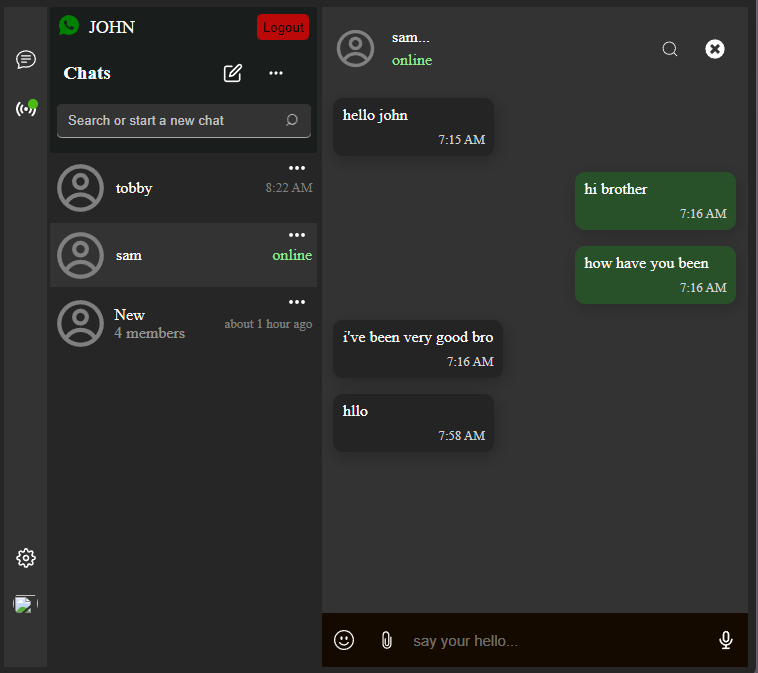
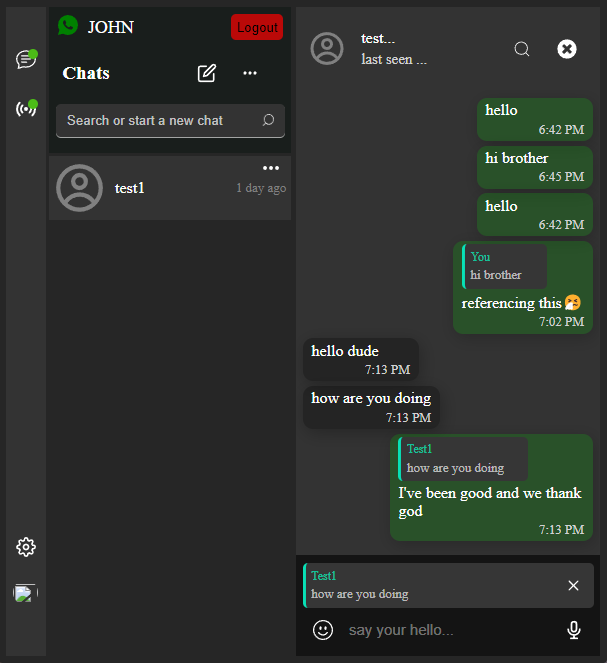
message copying functionality

diff --git a/src/components/chat/ChatBody.jsx b/src/components/chat/ChatBody.jsx
@@ -63,35 +63,53 @@ export const ChatBody = ({ socket, setEmojiOpen }) => {
     setReference(message)
     setIsReferenced(true)
   }
-
+console.log(messages)
   const messageContent = (
             <>
               {
-                messages?.map((message, index) =>
-                  <div 
-                    onDoubleClick={() => onMessageRef(message)}
-                    ref={messageRef}
-                    className={message?.senderId === currentUserId ? 'owner' : 'friend'} 
-                    key={message?._id}>
-                    {
-                      chatId?.convoId === message?.conversationId 
-                        &&
-                      <>
-                        <p>{message?.text}</p>  
-                        <p className='message_base'>
-                          {chatId?.groupName && (
-                            message?.senderId === currentUserId ?
-                              <span className='you'>You</span>
-                              :
-                              <span className='you'>{message?.username}</span>
-                            )
+                messages?.map(message =>  
+                  (
+                    <div 
+                      onDoubleClick={() => onMessageRef(message)}
+                      ref={messageRef}
+                      className={message?.senderId === currentUserId ? 'owner' : 'friend'} 
+                      key={message?._id}>
+                        <>
+                          {message?.referencedMessage?._id &&
+                            <div className='copied'>
+                              <p className='referenced_message'>
+                                <span className='sender'>
+                                  {
+                                    currentUser?._id === message?.referencedMessage?.senderId 
+                                      ? 
+                                        'You' : message?.referencedMessage?.username
+                                  }
+                                </span>
+                                <span className='text'>
+                                  {
+                                    message?.referencedMessage?.text.split(' ').length > 22 
+                                      ?
+                                      message?.referencedMessage?.text.slice(0, 105) + '...' : message?.referencedMessage?.text 
+                                  }
+                                </span>
+                              </p>
+                            </div>
                           }
-                          <span className={chatId?.groupName ? 'time' : 'other'}>{message?.dateTime}</span>
-                        </p>
-                      </>
-                    }
-                    {/* {chatViewed && <span>user viewed your chat</span>} */}
-                  </div>
+                          <p>{message?.text}</p>  
+                          <p className='message_base'>
+                            {chatId?.groupName && (
+                              message?.senderId === currentUserId ?
+                                <span className='you'>You</span>
+                                :
+                                <span className='you'>{message?.username}</span>
+                              )
+                            }
+                            <span className={chatId?.groupName ? 'time' : 'other'}>{message?.dateTime}</span>
+                          </p>
+                        </>
+                      {/* {chatViewed && <span>user viewed your chat</span>} */}
+                    </div>
+                  ) 
                 )
               }
             </>
@@ -186,6 +204,35 @@ position: relative;
     gap: 0.15rem;
     border-radius: 10px;
     padding: 0.2rem 0.55rem;
+
+    .copied{
+      background-color: #363636;
+      width: 100%;
+      border-radius: 5px 5px;
+      padding: 0.35rem;
+      border-left: 3px solid rgba(0,255,205,0.85); 
+
+      .referenced_message{
+        display: flex;
+        flex-direction: column;
+        align-items: flex-start;
+        width: 100%;
+        gap: 0.15rem;
+
+        .sender{
+          color: rgb(0,255,200,0.7);
+          text-transform: capitalize;
+          font-size: 12px;
+        }
+
+        .text{
+          white-space: wrap;
+          color: rgba(255,255,255,0.65);
+          font-size: 13px;
+          font-family: mono;
+        }
+      }
+    }
 
     p{
       white-space: wrap;

diff --git a/src/components/chat/ChatPage.jsx b/src/components/chat/ChatPage.jsx
@@ -11,9 +11,9 @@ import EmojiPicker from 'emoji-picker-react';
 
 export const ChatPage = ({ result, socket, inputRef }) => {
   const { 
-    chatId, setMessages, messages, setClick, setOpen, 
-    setMessage, message, currentUser, setResponse, 
-    counterRef, notification, setNotification, setIsChatOpened 
+    chatId, setMessages, messages, setClick, setOpen, setIsReferenced,
+    setMessage, message, currentUser, setResponse, reference, 
+    counterRef, setNotification, setIsChatOpened, notification
   } = useChatContext()
   const currentUserId = localStorage.getItem('userId') || ''
   const [targetUser, setTargetUser] = useState({});
@@ -39,13 +39,14 @@ export const ChatPage = ({ result, socket, inputRef }) => {
     const newMessage = { 
       conversationId: chatId?.convoId,
       senderId: currentUserId, username: currentUser?.username, 
-      text: message, dateTime: format(new Date(), 'p')
+      text: message, dateTime: format(new Date(), 'p'), 
+      referencedId: reference?._id
     }
     try{
       const {data} = await axiosAuth.post('/create_message', newMessage)
       setMessage('')
       setEmojiOpen(false)
-      //setMessages(prev => [...prev, data])
+      setIsReferenced(false)
       setReceived(data)
     }catch(error) {
       let errorMessage;
@@ -54,13 +55,13 @@ export const ChatPage = ({ result, socket, inputRef }) => {
       setError(errorMessage)
     }
   }
-//if(chatId?.convoId !== data[data.length - 1]?.conversationId) {
+
   //receive message
   useEffect(() => {
     socket.emit('create_message', received)
     socket.on('new_message', (data) => { 
       if(data?.conversationId !== chatId?.convoId) {
-        setNotification(prev => [...prev, {...data, orderId: counterRef.current++}])
+        setNotification([...notification, {...data, orderId: counterRef.current++}])
         setReceived({})
       }
       else {
@@ -69,17 +70,6 @@ export const ChatPage = ({ result, socket, inputRef }) => {
       }
     })
   })
-
-  // const sendMessage = async() => {
-  //   const newMessage = { 
-  //     conversationId: chatId?.convoId,
-  //     senderId: currentUserId, username: currentUser?.username, 
-  //     text: message, dateTime: format(new Date(), 'p')
-  //   }
-  //   await socket.emit('create-message', [...messages, newMessage])
-  //   await createMessage(newMessage)
-  //   setMessage('')
-  // }
 
   const pickEmoji = emoji => {
     let ref = inputRef?.current 

diff --git a/src/components/chat/AddNewConversation.jsx b/src/components/chat/AddNewConversation.jsx
@@ -11,20 +11,14 @@ export const AddNewConversation = ({ filteredUserSearch, socket }) => {
   const [loading, setLoading] = useState(false)
   const [error, setError] = useState(null);
   const [convo, setConvo] = useState({});
-  let loadRef = useRef(0);
-    
-  const incLoad = () => ++loadRef
 
   const createConvo = async(friendId) => {
     const initialState = {adminId: currentUserId, friendId}
     try{
-      //updatedUser && setConvo(updatedUser)
-      // await socket.emit('create', updatedUser?.username)
-      const res = await axiosAuth.post(`/conversation/create`, initialState)
-      const updatedUser = res?.data && ({ ...res?.data, done: true })
-      updatedUser && setConvo(updatedUser)
-      incLoad()
-      refresh()
+      const {data} = await axiosAuth.post(`/conversation/create`, initialState)
+      const updatedUser = data && { ...data, done: true }
+      setConvo(updatedUser)
+      // refresh()
     }catch(error) {
       let errorMessage;
       error?.response?.status === 400 ? errorMessage = 'id required' :
@@ -38,23 +32,16 @@ export const AddNewConversation = ({ filteredUserSearch, socket }) => {
   }
   
   useEffect(() => {
-    let isMounted = true
+    //let isMounted = true
     socket.emit('create_conversation', convo)
     socket.on('new_conversation', data => {
-      isMounted && setConversation(prev => [...prev, data])
+      setConversation([...conversation, data])
+      console.log(data)
+      refresh()
       setConvo({}) 
     })
-    console.log(loadRef.current)
-    console.log(convo)
-    return () => isMounted = false
-  }, [loadRef.current])
-
-  // const create = async (friendId) => {
-  //   const initialState = {adminId: currentUserId, friendId}
-  //   const val = await createConvo(initialState)
-  //   val && await socket.emit('create_Conversation', val)
-  // }
-
+    //return () => isMounted = false
+  })
 
   return (
     <NewConversation>

diff --git a/src/components/Left.jsx b/src/components/Left.jsx
@@ -12,9 +12,16 @@ export const Left = () => {
   const [sorted, setSorted] = useState([]);
 
   useEffect(() => {
-    const sortedNotification = notification.length && notification.sort((a, b) => b?.orderId - a?.orderId)
+    const filteredSort = notification.length && notification.filter(eachNotification => eachNotification?._id === eachNotification?._id)
+    const sortedNotification = filteredSort && filteredSort.sort((a, b) => b?.orderId - a?.orderId)
     setSorted(sortedNotification)
   }, [notification])
+
+  const openChatFromNotification = (notify) => {
+    setChatId({ userId: notify?._id, convoId: notify?.conversationId })
+    const filterNotification = sorted?.filter(notify => notify?.senderId !== '')
+    setNotification([...filterNotification])
+  }
 
   const customNotifications = (
     <div className='notification_container'>
@@ -22,7 +29,7 @@ export const Left = () => {
         sorted.map(notify => (
           <ul key={notify.orderId} className='notification'>
             <li
-              onClick={() => setChatId({ userId: notify?._id, convoId: notify?.conversationId })} 
+              onClick={() => openChatFromNotification(notify)} 
             >
               message from {notify?.username}
             </li>

diff --git a/src/components/chat/head/GroupHead.jsx b/src/components/chat/head/GroupHead.jsx
@@ -17,9 +17,11 @@ export const GroupHead = ({ groupConvo, typingEvent, resize, formatDate, result 
       <div className='detail'>
         <p className='text-edit'>{resize ? groupConvo?.groupName : groupConvo?.groupName?.slice(0, 4)+'...'}</p>
         { 
-          typingEvent?.message ?
-          <p>{`${typingEvent?.username} is ${typingEvent?.message}`}</p>
-          :
+          (typingEvent?.message && (typingEvent?.userId === groupConvo?._id)) ? 
+          <p>
+            {`${typingEvent?.username} is ${typingEvent?.message}`}
+          </p>
+            :
           <p className='base text-edit'>
             group members
           </p>

diff --git a/src/components/chat/ChatBase.jsx b/src/components/chat/ChatBase.jsx
@@ -15,10 +15,8 @@ export const ChatBase = ({ sendMessage, socket, setEmojiOpen, inputRef }) => {
   useEffect(() => {
     if(inputRef?.current?.value){
       socket.emit('typing', { username: currentUser?.username, userId: chatId?.userId, message:'typing...', conversationId: chatId?.convoId })
-      //inputRef.current.addEventListener('keydown', eventLis)
     }
     else{
-      //inputRef.current.removeEventListener('keyup', eventLis)
       socket.emit('no-typing', { username: currentUser?.username, userId: chatId?.userId, message:'', conversationId: chatId?.convoId })
     }
   }, [message])

diff --git a/src/components/chat/head/UserHead.jsx b/src/components/chat/head/UserHead.jsx
@@ -14,9 +14,13 @@ export const UserHead = ({ user, typingEvent, resize, formatDate }) => {
       <div className='detail'>
         <p className='text-edit'>{resize ? user?.username : user?.username?.slice(0, 4)+'...'}</p>
         { 
-          typingEvent?.message ?
-          <p>{typingEvent?.message}</p>
-          :
+          (typingEvent?.message && (typingEvent?.userId === user?._id)) ?
+            <p>
+            {
+              typingEvent?.message
+            }
+          </p>
+            :
           user?.status !== 'online' 
           ?
           <p className='base text-edit'>

diff --git a/src/components/Main.jsx b/src/components/Main.jsx
@@ -96,8 +96,6 @@ export const Main = ({ socket, inputRef }) => {
     setChatId({ userId: user?._id, convoId: user?.convoId })
     setTypingEvent({})
     inputRef?.current?.focus()
-    const filterAll = notification?.filter(notify => notify?.senderId !== user?._id)
-    notification?.length && setNotification([filterAll])
     setMessages([])
     setMessage('')
   }
